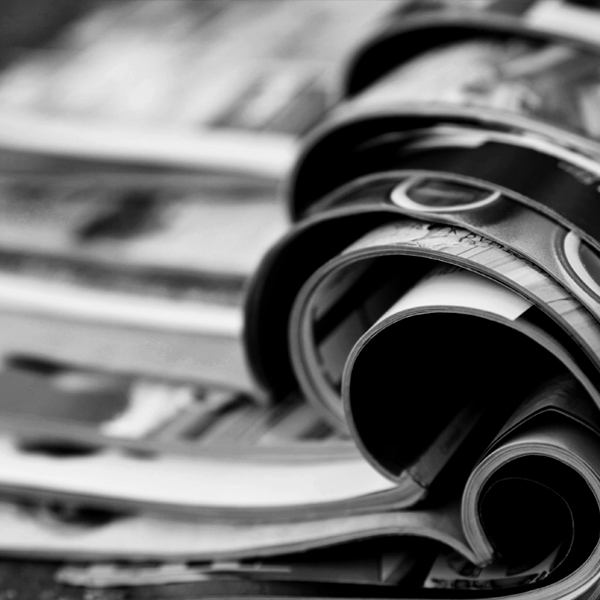
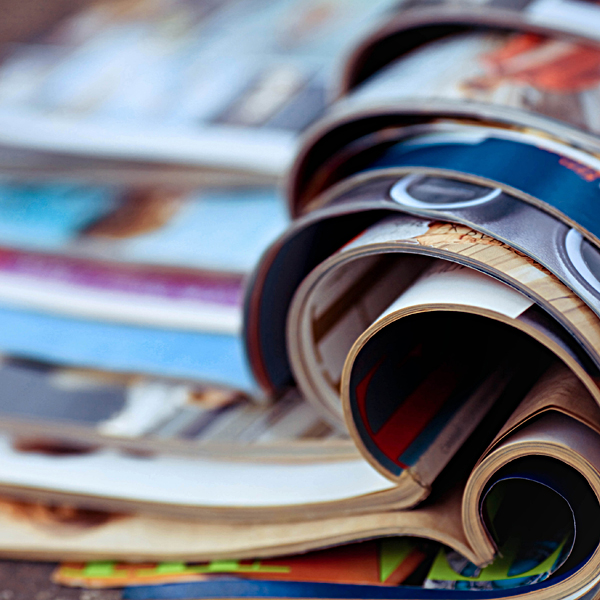
Porttfolio images

diff --git a/app/view/portfolio.html b/app/view/portfolio.html
@@ -5,7 +5,7 @@
 			<section class="dispContRow ">
 				<div class="contentTypeDiv mobHide ani_to_top div1 col-md-4">
 					<a href="/portfolio-main#portfolioNews">
-					<img src="images/Untitled-5.png" alt="">
+					<img src="images/boxes/news.jpg" alt="">
 					<p class="front">News</p>
 					<div class="back">
 						<div class="back-text-cont"> 
@@ -17,7 +17,7 @@
 				</div>
 				<div class="contentTypeDiv mobShow ani_to_top div1 col-md-4">
 					<a href="/portfolio-main#portfolioNews">
-					<img src="images/Untitled-5.png" alt="">
+					<img src="images/boxes/news.jpg" alt="">
 					<p class="front">News</p>
 					<div class="back">
 						<div class="back-text-cont"> 
@@ -65,7 +65,7 @@
 				</div>	
 				<div class="contentTypeDiv mobShow ani_to_top div1 col-md-4">
 					<a href="/portfolio-main#portfolioMovies">
-					<img src="images/Untitled-2.png" alt="">
+					<img src="images/boxes/motionpicture.jpg" alt="">
 					<p class="front">Motion Pictures</p>
 					<div class="back">
 						<div class="back-text-cont">
@@ -91,7 +91,7 @@
 				</div>
 				<div class="contentTypeDiv mobHide ani_to_top div1 col-md-4">
 					<a href="/portfolio-main#portfolioPublishing">
-					<img src="images/Untitled-7.png" alt="">
+					<img src="images/boxes/publishing.jpg" alt="">
 					<p class="front">Publishing</p>
 					<div class="back">
 						<div class="back-text-cont"> 
@@ -103,7 +103,7 @@
 				</div>
 				<div class="contentTypeDiv mobShow ani_to_top div1 col-md-4">
 					<a href="/portfolio-main#portfolioPublishing">
-					<img src="images/Untitled-7.png" alt="">
+					<img src="images/boxes/publishing.jpg" alt="">
 					<p class="front">Publishing</p>
 					<div class="back">
 						<div class="back-text-cont"> 
@@ -115,7 +115,7 @@
 				</div>
 				<div class="contentTypeDiv mobHide ani_to_top div1 col-md-4">
 					<a href="/portfolio-main#portfolioMovies">
-					<img src="images/Untitled-2.png" alt="">
+					<img src="images/boxes/motionpicture.jpg" alt="">
 					<p class="front">Motion Pictures</p>
 					<div class="back">
 						<div class="back-text-cont">
@@ -127,7 +127,7 @@
 				</div>
 				<div class="contentTypeDiv mobHide ani_to_top div1 col-md-4">
 					<a href="/portfolio-main#portfolioDistribution">
-					<img src="images/Untitled-6.png" alt="">
+					<img src="images/boxes/distribution.jpg" alt="">
 					<p class="front">Distribution</p>
 					<div class="back">
 						<div class="back-text-cont"> 
@@ -139,7 +139,7 @@
 				</div>
 				<div class="contentTypeDiv mobShow ani_to_top div1 col-md-4">
 					<a href="/portfolio-main#portfolioDistribution">
-					<img src="images/Untitled-6.png" alt="">
+					<img src="images/boxes/distribution.jpg" alt="">
 					<p class="front">Distribution</p>
 					<div class="back">
 						<div class="back-text-cont"> 
@@ -153,7 +153,7 @@
 			<section class="dispContRow mobVr">
 				<div class="contentTypeDiv div1 col-md-4">
 					<a href="/portfolio-main#portfolioNews">
-					<img src="images/Untitled-5.png" alt="">
+					<img src="images/boxes/news.jpg" alt="">
 					<p class="front">News</p>
 					<div class="back">
 						<div class="back-text-cont"> 
@@ -192,7 +192,7 @@
 				
 				<div class="contentTypeDiv div5 col-md-4">
 					<a href="/portfolio-main#portfolioPublishing">
-					<img src="images/Untitled-7.png" alt="">
+					<img src="images/boxes/publishing.jpg" alt="">
 					<p class="front">Publishing</p>
 					<div class="back">
 						<div class="back-text-cont"> 
@@ -204,7 +204,7 @@
 				</div>
 				<div class="contentTypeDiv div3 col-md-4">
 					<a href="/portfolio-main#portfolioMovies">
-					<img src="images/Untitled-2.png" alt="">
+					<img src="images/boxes/motionpicture.jpg" alt="">
 					<p class="front">Motion Pictures</p>
 					<div class="back">
 						<div class="back-text-cont">
@@ -216,7 +216,7 @@
 				</div>
 				<div class="contentTypeDiv div6 col-md-4">
 					<a href="/portfolio-main#portfolioDistribution">
-					<img src="images/Untitled-6.png" alt="">
+					<img src="images/boxes/distribution.jpg" alt="">
 					<p class="front">Distribution</p>
 					<div class="back">
 						<div class="back-text-cont"> 
